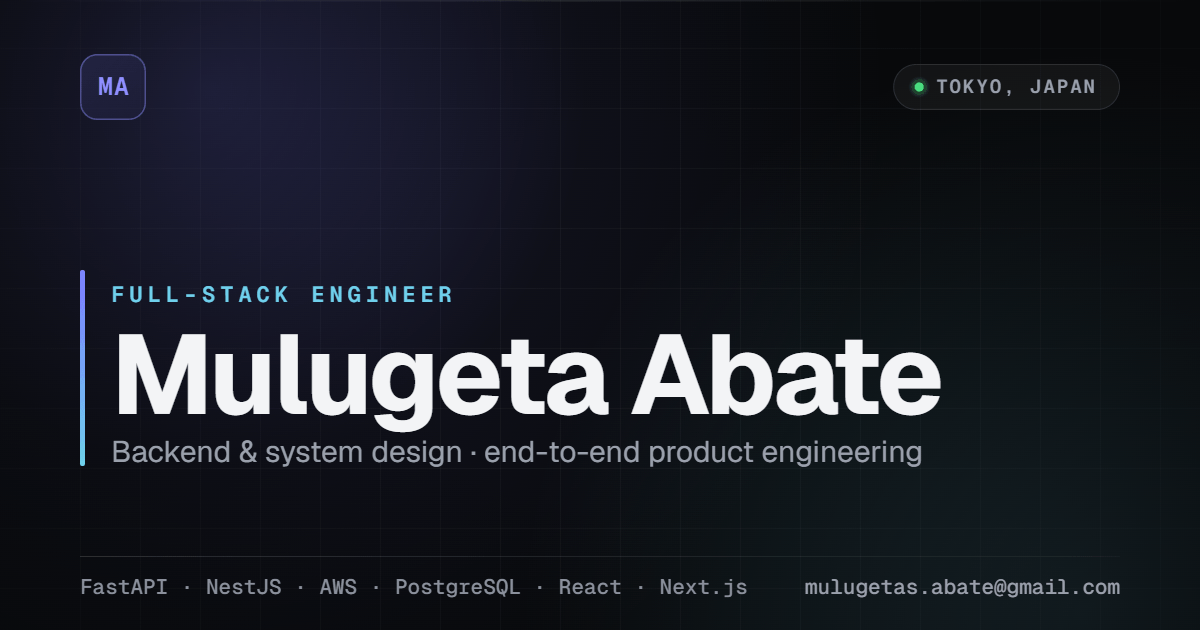
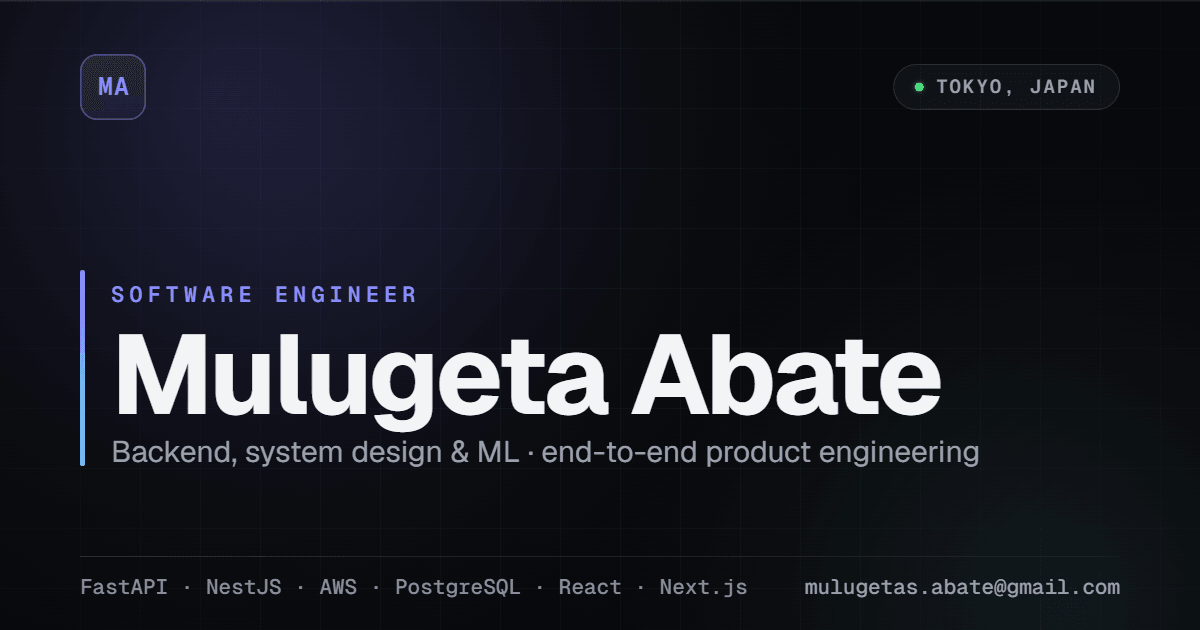
feat: rebrand role to Software Engineer + ML; refresh OG and note dates (#8)
- Role/title is now "Software Engineer · Backend, System Design & ML"
  across the page title, JSON-LD, OG card, keywords, and /notes meta
  (was Full-Stack Engineer)
- New dark OG image; hero headline reads "end-to-end systems"; ML added
  to the site description and README
- Note dates: async-ML inference → Dec 2025, M-Pesa → Feb 2026,
  flood simulation → Mar 2026

Changed region(s): [[0.185, 0.6937, 0.8325, 0.754], [0.0925, 0.4524, 0.4008, 0.4825], [0.74, 0.1206, 0.7708, 0.1508]]

diff --git a/lib/site-config.ts b/lib/site-config.ts
@@ -3,10 +3,10 @@ import type { SiteConfig } from "@/lib/types";
 export const siteConfig: SiteConfig = {
   name: "Mulugeta Solomon Abate",
   shortName: "Mulugeta Abate",
-  role: "Full-Stack Engineer · Backend & System Design",
-  tagline: "I build full-stack systems for problems that matter.",
+  role: "Software Engineer · Backend, System Design & ML",
+  tagline: "I build end-to-end systems for problems that matter.",
   description:
-    "Full-stack engineer in Tokyo specializing in backend and system design. I build production ML platforms, cloud infrastructure, and end-to-end products — from flood-simulation and malaria-detection AI services to a SaaS product for the East African market.",
+    "Software engineer in Tokyo specializing in backend, system design, and machine learning. I build production ML platforms, cloud infrastructure, and end-to-end products — from flood-simulation and malaria-detection AI services to a SaaS product for the East African market.",
   url: "https://mulugetaabate.com",
   email: "mulugetas.abate@gmail.com",
   github: "https://github.com/Mulugeta-Solomon",

diff --git a/app/notes/page.tsx b/app/notes/page.tsx
@@ -7,7 +7,7 @@ import { notes } from "@/lib/notes";
 import { siteConfig } from "@/lib/site-config";
 
 const notesDescription =
-  "Field notes on ML infrastructure, geospatial systems, and shipping software for hard places — by Mulugeta Solomon Abate, full-stack engineer in Tokyo.";
+  "Field notes on ML infrastructure, geospatial systems, and shipping software for hard places — by Mulugeta Solomon Abate, software engineer in Tokyo.";
 
 // Shared social card (metadataBase resolves the relative URL to absolute).
 const ogImage = "/opengraph-image.png";

diff --git a/components/home/hero.tsx b/components/home/hero.tsx
@@ -26,7 +26,7 @@ export function Hero() {
 
           <FadeInItem>
             <h1 className="m-0 max-w-[18ch] text-[clamp(33px,5.6vw,56px)] font-semibold leading-[1.05] tracking-[-0.035em] text-text">
-              I build full‑stack systems for problems that matter.
+              I build end‑to‑end systems for problems that matter.
             </h1>
           </FadeInItem>
 

diff --git a/app/layout.tsx b/app/layout.tsx
@@ -21,7 +21,8 @@ export const metadata: Metadata = {
   publisher: siteConfig.name,
   keywords: [
     "Mulugeta Solomon Abate",
-    "full-stack engineer",
+    "software engineer",
+    "machine learning engineer",
     "backend engineer",
     "system design",
     "ML infrastructure",

diff --git a/README.md b/README.md
@@ -1,6 +1,6 @@
 # Portfolio V2 — Mulugeta Solomon Abate
 
-Personal portfolio and engineering notes for **Mulugeta Solomon Abate** — a full-stack engineer in Tokyo focused on **backend & system design**. Dark-first with a light theme, built around an Apple-style **Liquid Glass** design language.
+Personal portfolio and engineering notes for **Mulugeta Solomon Abate** — a software engineer in Tokyo focused on **backend, system design & ML**. Dark-first with a light theme, built around an Apple-style **Liquid Glass** design language.
 
 **Live:** https://mulugetaabate.com _(coming soon)_
 
